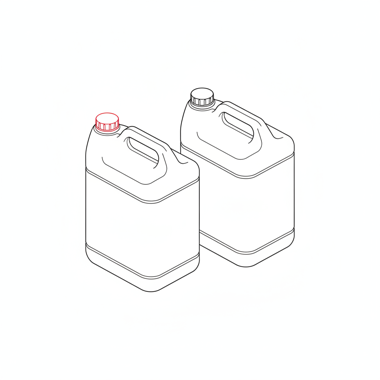
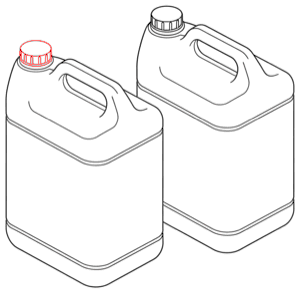
Menos espacio vacio, imagenes 10 veces mas livianas y hoja para imprimir
EL ESPACIO VACIO ERA DE LAS IMAGENES
- Los dibujos ocupaban un tercio de su archivo: el resto era margen blanco.
  Dentro de una tarjeta chica el objeto quedaba diminuto rodeado de gris
- Escrita una herramienta en Python puro (herramientas/recortar_png.py) que
  recorta el margen y guarda el PNG con paleta indexada. Un dibujo de linea usa
  negro, rojo, blanco y los grises del suavizado: no necesita 3 bytes por pixel
- La paleta se siembra a mano con blanco, negro y el rojo de marca; si se dejaba
  solo a la frecuencia, el rojo desaparecia (son pocos pixeles) y el fondo se
  volvia gris
- Resultado: 1447 KB -> 145 KB en las 15 imagenes, y el dibujo llena su caja

DISENO
- La lista de compras pasa a dos columnas en pantalla ancha: ocho cosas en una
  sola columna obligaban a un scroll larguisimo
- El dibujo va sin caja de fondo, mas grande respecto a la tarjeta
- Los dibujos de los pasos bajan de 420 a 300px: siete imagenes grandes hacian
  una pagina interminable
- La pagina paso de 7691 a 6284 pixeles de alto con el mismo contenido

HOJA PARA IMPRIMIR
- Al final de la guia, un resumen en dos columnas con casillas: lo que compro y
  lo que hago, mas los datos que le pido al asesor y el WhatsApp
- Al imprimir sale SOLO esa hoja: el resto del portal se oculta. Es una lista
  para llevar a la ferreteria y pasarle al electricista, no la web en papel

diff --git a/css/styles.css b/css/styles.css
@@ -804,22 +804,125 @@ button.big{width:100%;text-align:left;font-family:inherit;cursor:pointer}
 /* El subtexto del botón de WhatsApp perdía contraste por la opacidad. */
 .wa-txt span{opacity:1}
 
-/* ---------- La guía impresa: es lo que el cliente se lleva a la ferretería ---------- */
-@media print{
-  .topbar,.foot,.pie-legal,.volver,.ai-panel,.ai-btn,.correo-caja,.prep-imprimir,
-  .cuenta,.demo-band,.skip,.toast,.prep-step-fig,.acceso-diag{display:none!important}
-  body{background:#fff;color:#000}
-  .view{padding:0;max-width:100%}
-  .card,.prep-aviso,.prep-ok{box-shadow:none;border:1px solid #ccc;break-inside:avoid;padding:12px}
-  .card.peligro{border:2px solid #000}
-  .section-h{font-size:16px;margin:16px 0 8px;break-after:avoid}
-  .prep-step{break-inside:avoid;padding:6px 0}
-  .prep-step-num{border:1px solid #000}
-  .prep-como-txt{display:block!important}
-  .prep-como-btn{display:none}
-  .tabla-scroll{overflow:visible}
-  table{font-size:11px}
-  a[href^="http"]::after{content:" (" attr(href) ")";font-size:9px;color:#555}
+}
+
+/* ---------- Lista de compras ----------
+   Dos columnas en pantalla ancha: la lista tiene 8 cosas y en una sola columna
+   obligaba a hacer scroll de más. El dibujo va grande y sin caja de fondo: antes
+   el objeto quedaba diminuto dentro de un cuadro gris, y eso era el espacio
+   vacío que se veía. */
+.seccion-bajada{margin:0 0 var(--s-4);font-size:var(--t-md);max-width:var(--medida)}
+.compras{display:grid;grid-template-columns:repeat(auto-fill,minmax(360px,1fr));gap:var(--s-3);margin-bottom:var(--s-6)}
+.compra{display:flex;gap:var(--s-3);align-items:flex-start;background:var(--bg);border:1px solid var(--line);border-radius:var(--r-lg);padding:var(--s-3) var(--s-4);box-shadow:var(--sh)}
+.compra-img{flex-shrink:0;width:96px;display:flex;align-items:center;justify-content:center}
+.compra-img img{width:100%;height:auto;display:block;mix-blend-mode:multiply}
+.compra-txt{flex:1;min-width:0}
+.compra-txt h3{font-family:var(--slab);font-size:var(--t-md);margin:0 0 3px;line-height:var(--lh-snug)}
+.compra-para{margin:0 0 5px;font-size:13px;color:var(--red-cta);font-weight:700;line-height:var(--lh-snug)}
+.compra-spec{margin:0 0 5px;font-size:13px;line-height:1.5;color:var(--ink)}
+.compra-donde{margin:0 0 6px;font-size:12.5px;color:var(--muted)}
+.compra .badge{font-size:11px;padding:3px 7px}
+
+/* El aviso de la ficha: dos frases, no un párrafo */
+.card.ficha-modelo{border:2px solid var(--ink);margin-bottom:var(--s-4);padding:var(--s-4)}
+.ficha-modelo strong{display:block;font-family:var(--slab);font-size:var(--t-md);margin-bottom:4px}
+.ficha-modelo p{margin:0 0 var(--s-3);font-size:var(--t-sm);max-width:var(--medida)}
+
+@media(max-width:560px){
+  .compras{grid-template-columns:1fr}
+  .compra{padding:var(--s-3)}
+  .compra-img{width:78px}
+}
+
+/* ---------- Cuenta regresiva hasta la entrega ---------- */
+.cuenta{display:flex;gap:12px;align-items:flex-start;background:var(--black);color:var(--on-black);border-radius:var(--r-lg);padding:16px 18px;margin-bottom:var(--s-5)}
+.cuenta.urgente{background:var(--red-dark)}
+.cuenta-ic{font-size:22px;line-height:1;flex-shrink:0}
+.cuenta strong{display:block;font-family:var(--slab);font-size:var(--t-lg);line-height:var(--lh-snug);margin-bottom:4px}
+.cuenta span{font-size:var(--t-sm);color:var(--on-black-dim)}
+.cuenta.urgente span{color:#ffd9da}
+.cuenta strong strong{display:inline;font-family:inherit;font-size:inherit;color:var(--amber)}
+
+/* ---------- Lo que puede lastimarte, arriba y en rojo ---------- */
+.card.peligro{border:2px solid var(--red);background:var(--red-50)}
+.lista-peligro{margin:0;padding-left:20px}
+.lista-peligro li{margin-bottom:10px;font-size:var(--t-md);line-height:var(--lh-base)}
+.lista-peligro li:last-child{margin-bottom:0}
+
+/* ---------- Paso 0: pedir la ficha del modelo ---------- */
+.card.paso0{border:2px solid var(--ink)}
+.paso0-tag{display:inline-block;background:var(--ink);color:var(--on-black);font-size:var(--t-xs);font-weight:700;text-transform:uppercase;letter-spacing:.05em;padding:5px 10px;border-radius:var(--r-sm)}
+.card.paso0 .btn{margin-top:6px}
+
+/* ---------- Checklist: tiempos, opcionales y "¿cómo lo hago?" ---------- */
+.prep-tiempo{display:block;margin-top:5px;font-size:var(--t-sm);font-weight:700;color:var(--red-cta)}
+.prep-opcional{display:block;margin-top:5px;font-size:var(--t-sm);color:var(--muted);font-weight:400}
+.prep-como{padding:0 0 0 44px}
+.prep-como-btn{background:none;border:none;color:var(--red-cta);font-family:var(--sans);font-size:var(--t-sm);font-weight:700;cursor:pointer;padding:8px 0;min-height:var(--tap);text-decoration:underline}
+.prep-como-txt{background:var(--alt);border-radius:var(--r);padding:14px 16px;margin:4px 0 10px}
+.prep-como-txt .ulist{margin:0}
+.prep-como-txt li{font-size:var(--t-sm);line-height:var(--lh-base);margin-bottom:8px}
+
+/* ---------- El día que llega ---------- */
+.dia-entrega .acceso-pasos li.destacado{font-weight:700;color:var(--red-dark)}
+@media(max-width:560px){.prep-como{padding-left:0}}
+
+/* ============================================================
+   Correcciones de accesibilidad (auditoría WCAG 2.2 AA)
+   Van al final a propósito: pisan por orden a las reglas previas,
+   sin tener que reescribir el archivo entero.
+   ============================================================ */
+
+/* El texto del consentimiento legal estaba en 2.89:1 sobre el fondo negro del
+   acceso: ilegible, y encima es el texto que hay que leer ANTES de aceptar. */
+.gate-consent,
+.gate-consent.opcional em,
+.otp-pasos p,
+.otp-estado,
+.gate-volver,
+.gate-legal a,
+.otp-codigo-manual{color:var(--on-black-dim);opacity:1}
+.gate-consent a{color:#FF6B70}                 /* 5.6:1 sobre negro */
+.gate-foot a,.gate-paso strong{color:#FF6B70}
+.gate-doc-ej{color:var(--on-black-dim);font-size:var(--t-sm);margin:8px 0 0}
+
+/* El botón del acceso se volvía ilegible justo al pulsarlo (3.87:1). */
+.gate-btn[aria-busy="true"]{opacity:1;background:var(--red-dark);cursor:progress}
+
+/* No se quita el indicador de foco: se reemplaza por uno más visible. */
+.cevi-form input:focus-visible,
+.otp-form input:focus-visible,
+.correo-form input:focus-visible,
+.lr-form input:focus-visible,
+.lr-form textarea:focus-visible,
+.lr-form select:focus-visible{outline:3px solid var(--red-cta);outline-offset:2px;border-color:var(--red-cta)}
+
+/* El borde de los campos no se distinguía del fondo (1.23:1). Ahora 4.5:1. */
+.field input,.field textarea,.field select,
+.otp-form input,.correo-form input,.cevi-form input{border-color:#767676}
+#gateDoc,.gate-tipos button,.gate-paises button{border-color:#5a5a5a}
+
+/* Elegido vs no elegido se distinguía solo por color. */
+.gate-paises button[aria-checked="true"],
+.gate-tipos button[aria-checked="true"]{box-shadow:inset 0 0 0 2px rgba(255,255,255,.22)}
+
+/* A 320px o con zoom al 200% los cinco países se desbordaban. */
+.gate-paises{grid-template-columns:repeat(auto-fit,minmax(64px,1fr))}
+@media(max-width:360px){.gate-paises{grid-template-columns:repeat(3,1fr)}}
+.cert-maq-grid{grid-template-columns:repeat(auto-fill,minmax(min(300px,100%),1fr))}
+
+/* El foco no debe quedar debajo de la barra superior fija. */
+.view :is(a,button,input,select,textarea,summary){scroll-margin-top:72px}
+
+/* «Saltar al contenido» apuntaba a #view, que está oculto mientras se accede. */
+.gate:not([hidden]) ~ .skip,body:has(.gate:not([hidden])) .skip{display:none}
+
+/* Texto solo para lectores de pantalla (avisos de "abre en otra pestaña"). */
+.sr-only{position:absolute;width:1px;height:1px;padding:0;margin:-1px;overflow:hidden;clip:rect(0 0 0 0);white-space:nowrap;border:0}
+
+/* El subtexto del botón de WhatsApp perdía contraste por la opacidad. */
+.wa-txt span{opacity:1}
+
 }
 
 /* ---------- Lista de compras: lo primero de la guía ----------
@@ -846,8 +949,48 @@ button.big{width:100%;text-align:left;font-family:inherit;cursor:pointer}
 }
 @media print{.compra-img{width:70px;height:70px}.compra{break-inside:avoid}}
 
-/* ---------- Dibujos de cada paso: más grandes, sin marco ni pie ---------- */
-.prep-step-fig{margin:10px 0 4px 44px;max-width:420px}
-.prep-step-fig img{width:100%;height:auto;display:block;border-radius:var(--r);background:var(--alt);mix-blend-mode:multiply}
-@media(max-width:560px){.prep-step-fig{margin-left:0;max-width:100%}}
-@media print{.prep-step-fig{display:block!important;max-width:200px;margin-left:0}}
+/* ---------- Dibujo de cada paso ----------
+   Sin marco ni fondo: el dibujo ya es blanco. Más chico que antes: siete pasos
+   con una imagen de 400px cada uno hacían una página larguísima. */
+.prep-step-fig{margin:8px 0 4px 44px;max-width:300px}
+.prep-step-fig img{width:100%;height:auto;display:block;mix-blend-mode:multiply}
+@media(max-width:560px){.prep-step-fig{margin-left:0;max-width:240px}}
+
+
+/* ---------- Hoja resumen: lo que el cliente se lleva ---------- */
+.hoja{border:2px solid var(--ink);border-radius:var(--r-lg);padding:var(--s-5);margin-top:var(--s-6);background:var(--bg)}
+.hoja-cab{display:flex;gap:var(--s-4);align-items:flex-start;justify-content:space-between;flex-wrap:wrap;margin-bottom:var(--s-4)}
+.hoja-cab h2{font-family:var(--slab);font-size:var(--t-xl);margin:0 0 4px;line-height:var(--lh-snug)}
+.hoja-cab p{margin:0;font-size:var(--t-sm);color:var(--muted)}
+.hoja-marca{display:none}
+.hoja-cols{display:grid;grid-template-columns:1fr 1fr;gap:var(--s-5)}
+.hoja-col h3{font-family:var(--slab);font-size:var(--t-md);text-transform:uppercase;letter-spacing:.06em;margin:0 0 var(--s-3);padding-bottom:6px;border-bottom:2px solid var(--line)}
+.hoja-col ul{list-style:none;margin:0;padding:0}
+.hoja-col li{display:flex;gap:10px;align-items:flex-start;padding:7px 0;font-size:var(--t-sm);line-height:var(--lh-snug);border-bottom:1px solid var(--line)}
+.hoja-col li:last-child{border-bottom:none}
+.hoja-col em{font-style:normal;color:var(--red-cta);font-weight:700}
+.hoja-box{flex-shrink:0;width:16px;height:16px;border:2px solid var(--ink);border-radius:3px;margin-top:2px}
+.hoja-ficha{margin-top:var(--s-4);padding-top:var(--s-4);border-top:2px solid var(--line)}
+.hoja-ficha h3{font-family:var(--slab);font-size:var(--t-md);text-transform:uppercase;letter-spacing:.06em;margin:0 0 6px}
+.hoja-ficha p{margin:0;font-size:var(--t-sm);line-height:var(--lh-base)}
+.hoja-pie{margin:var(--s-4) 0 0;font-size:var(--t-sm);color:var(--muted)}
+@media(max-width:620px){.hoja-cols{grid-template-columns:1fr;gap:var(--s-4)}.hoja{padding:var(--s-4)}}
+
+/* Al imprimir queda SOLO la hoja: es una lista para llevar, no la web en papel. */
+@media print{
+  body{background:#fff;color:#000}
+  .topbar,.foot,.pie-legal,.volver,.pag-title,.ai-panel,.ai-btn,.toast,.skip,.demo-band,.no-print,
+  .prep-aviso,.prep-ok,.cuenta,.correo-caja,.section-h,.seccion-bajada,.compras,.card,.help-card,
+  .bar,.prep-steps,.prep-imprimir{display:none!important}
+  .hoja{display:block!important;border:none;padding:0;margin:0}
+  .hoja-cab{display:none}
+  .hoja-marca{display:block!important;border-bottom:2px solid #000;padding-bottom:8px;margin-bottom:16px}
+  .hoja-marca strong{display:block;font-family:var(--slab);font-size:20px}
+  .hoja-marca span{font-size:12px;color:#444}
+  .hoja-cols{display:grid!important;grid-template-columns:1fr 1fr;gap:24px}
+  .hoja-col li{break-inside:avoid;padding:6px 0;font-size:11.5px}
+  .hoja-box{border-color:#000}
+  .hoja-ficha,.hoja-pie{display:block!important}
+  .view{padding:0;max-width:100%}
+  @page{margin:14mm}
+}

diff --git a/js/app.js b/js/app.js
@@ -398,7 +398,6 @@ const views = {
       <p class="muted seccion-bajada">En este orden: primero lo que depende de otras personas y toma días.</p>
       <div class="card">
         <div class="bar" style="margin:0 0 20px"><i id="prepBar" style="width:${total ? Math.round(hechos / total * 100) : 0}%"></i></div>
-        <div class="prep-imprimir"><button class="btn ghost sm" id="printPrep">🖨 Imprimir esta guía</button></div>
         <ol id="prepList" class="prep-steps">${p.checklist.map((c, i) => {
           const g = c.guia ? guiaDe(c.guia) : null;
           return `<li class="prep-step${done(c.id) ? ' done' : ''}" data-prep="${c.id}">
@@ -429,9 +428,11 @@ const views = {
         <ol class="acceso-pasos">${p.diaEntrega.pasos.map(x => `<li${x.destacado ? ' class="destacado"' : ''}>${esc(x.t)}</li>`).join('')}</ol>
       </div>` : ''}
 
+      ${resumenImprimible(p, cli, maq)}
+
       <div class="help-card" style="margin-top:28px">
         <div class="grow"><h3>Ya está tu espacio, ¿y ahora?</h3>
-          <p>Cuando tengas todo listo, entra a la Academia: ahí están las reglas de seguridad y los cursos para usarla desde el primer día.</p></div>
+          <p>Entra a la Academia: ahí están las reglas de seguridad y los cursos para usarla desde el primer día.</p></div>
         <a class="btn primary sm" href="#/academia">Ir a la Academia</a>
       </div>`;
   },
@@ -654,6 +655,7 @@ function bind(route) {
       }
     });
     bindCorreo();
+    const ih = $('#imprimirHoja'); if (ih) ih.onclick = () => window.print();
     // "¿Cómo lo hago?" pegado a cada paso: antes la explicación estaba tres
     // bloques más abajo y nadie bajaba a buscarla.
     view.querySelectorAll('.prep-como-btn').forEach(b => b.onclick = () => {
@@ -662,7 +664,7 @@ function bind(route) {
       b.setAttribute('aria-expanded', String(!abierto));
       b.textContent = abierto ? '¿Cómo lo hago?' : 'Ocultar';
     });
-    const pb = $('#printPrep'); if (pb) pb.onclick = () => window.print();
+
   }
   if (route === 'certificado') {
     bindAccordions('.faq-item');
@@ -1384,6 +1386,48 @@ function initAgente() {
 }
 window.ceviAbrir = ceviAbrir;
 
+/* ---------- Resumen imprimible ----------
+   Una hoja con todo: lo que hay que comprar y lo que hay que hacer, en casillas.
+   Es lo que el cliente se lleva a la ferretería y le pasa a su electricista.
+   Al imprimir, el resto del portal desaparece y queda solo esto. */
+function resumenImprimible(p, cli, maq) {
+  const casilla = '<span class="hoja-box" aria-hidden="true"></span>';
+  return `
+    <section class="hoja" id="hojaResumen">
+      <div class="hoja-cab">
+        <div>
+          <h2>Todo lo que necesitas, en una hoja</h2>
+          <p>Imprímela o guárdala en el celular. Ve marcando lo que ya tienes.</p>
+        </div>
+        <button type="button" class="btn primary sm no-print" id="imprimirHoja">🖨 Imprimir</button>
+      </div>
+
+      <div class="hoja-marca">
+        <strong>C4V Láser</strong>
+        <span>Preparación de tu espacio${cli ? ` · ${esc(nombrePropio(cli.nombre))}` : ''}${maq?.modelo ? ` · láser ${esc(maq.modelo)}` : ''}</span>
+      </div>
+
+      <div class="hoja-cols">
+        <div class="hoja-col">
+          <h3>Lo que compro</h3>
+          <ul>${p.compras.map(c => `<li>${casilla}<span>${esc(c.item)}${c.pedirFicha ? ' <em>(pide la medida)</em>' : ''}</span></li>`).join('')}</ul>
+        </div>
+        <div class="hoja-col">
+          <h3>Lo que hago</h3>
+          <ul>${p.checklist.map(c => `<li>${casilla}<span>${esc(c.t)}${c.tiempo ? ` <em>${esc(c.tiempo)}</em>` : ''}</span></li>`).join('')}</ul>
+        </div>
+      </div>
+
+      ${p.fichaModelo ? `
+      <div class="hoja-ficha">
+        <h3>Lo que le pido a mi asesor</h3>
+        <p>Capacidad del estabilizador · diámetro del extractor · peso de la máquina · amperaje y grosor del cable · medidas de la caja</p>
+      </div>` : ''}
+
+      <p class="hoja-pie">¿Dudas? WhatsApp ${esc((CFG.contacto || {}).whatsapp_visible || '')} — te responde una persona, todos los días.</p>
+    </section>`;
+}
+
 /* ---------- Cuenta regresiva hasta la entrega ----------
    La fecha ya venía de Odoo y no se mostraba en ningún lado. Sin fecha, "prepara
    tu espacio antes de que llegue" es una idea abstracta; con fecha, es un plazo. */
@@ -1502,7 +1546,7 @@ function bindCorreo() {
   const otra = $('#correoOtra');
   if (otra) otra.onclick = () => { state.guiaPorCorreo = null; render('preparacion'); setTimeout(() => $('#correoInput')?.focus(), 80); };
   const desc = $('#guiaDescargar');
-  if (desc) desc.onclick = () => window.print();
+  if (desc) desc.onclick = () => { document.getElementById('hojaResumen')?.scrollIntoView({ behavior: 'smooth' }); setTimeout(() => window.print(), 500); };
 }
 
 // ---------- pie legal (datos del proveedor + accesos obligatorios) ----------

diff --git a/index.html b/index.html
@@ -18,7 +18,7 @@
   <link rel="preconnect" href="https://fonts.googleapis.com" />
   <link rel="preconnect" href="https://fonts.gstatic.com" crossorigin />
   <link href="https://fonts.googleapis.com/css2?family=Roboto+Slab:wght@700;800&family=Roboto:wght@400;500;700&display=swap" rel="stylesheet" />
-  <link rel="stylesheet" href="css/styles.css?v=20260909i" />
+  <link rel="stylesheet" href="css/styles.css?v=20260909k" />
 </head>
 <body>
   <a class="skip" href="#view">Saltar al contenido</a>
@@ -155,8 +155,8 @@
     </div>
   </div>
 
-  <script src="js/config.js?v=20260909i"></script>
-  <script src="js/data.js?v=20260909i"></script>
-  <script src="js/app.js?v=20260909i"></script>
+  <script src="js/config.js?v=20260909k"></script>
+  <script src="js/data.js?v=20260909k"></script>
+  <script src="js/app.js?v=20260909k"></script>
 </body>
 </html>

diff --git a/js/data.js b/js/data.js
@@ -361,7 +361,7 @@ window.__SEED__ = {
        aparte, el aviso vive DENTRO de la lista, que es donde el cliente lo necesita. */
     fichaModelo: {
       titulo: "Tres de estas compras dependen de tu modelo",
-      intro: "Pídenos la ficha de tu máquina antes de comprar. Te la pasamos el mismo día e incluye la capacidad del estabilizador, el diámetro del extractor, el peso que debe aguantar la mesa, y también el amperaje para tu electricista y las medidas de la caja para medir la puerta."
+      intro: "Pídenos la ficha de tu máquina antes de comprar. Te la pasamos el mismo día."
     },
     /* Solo ACCIONES. Lo que hay que comprar vive en `compras`: antes estaba en
        las dos listas y el cliente leía lo mismo dos veces. */
